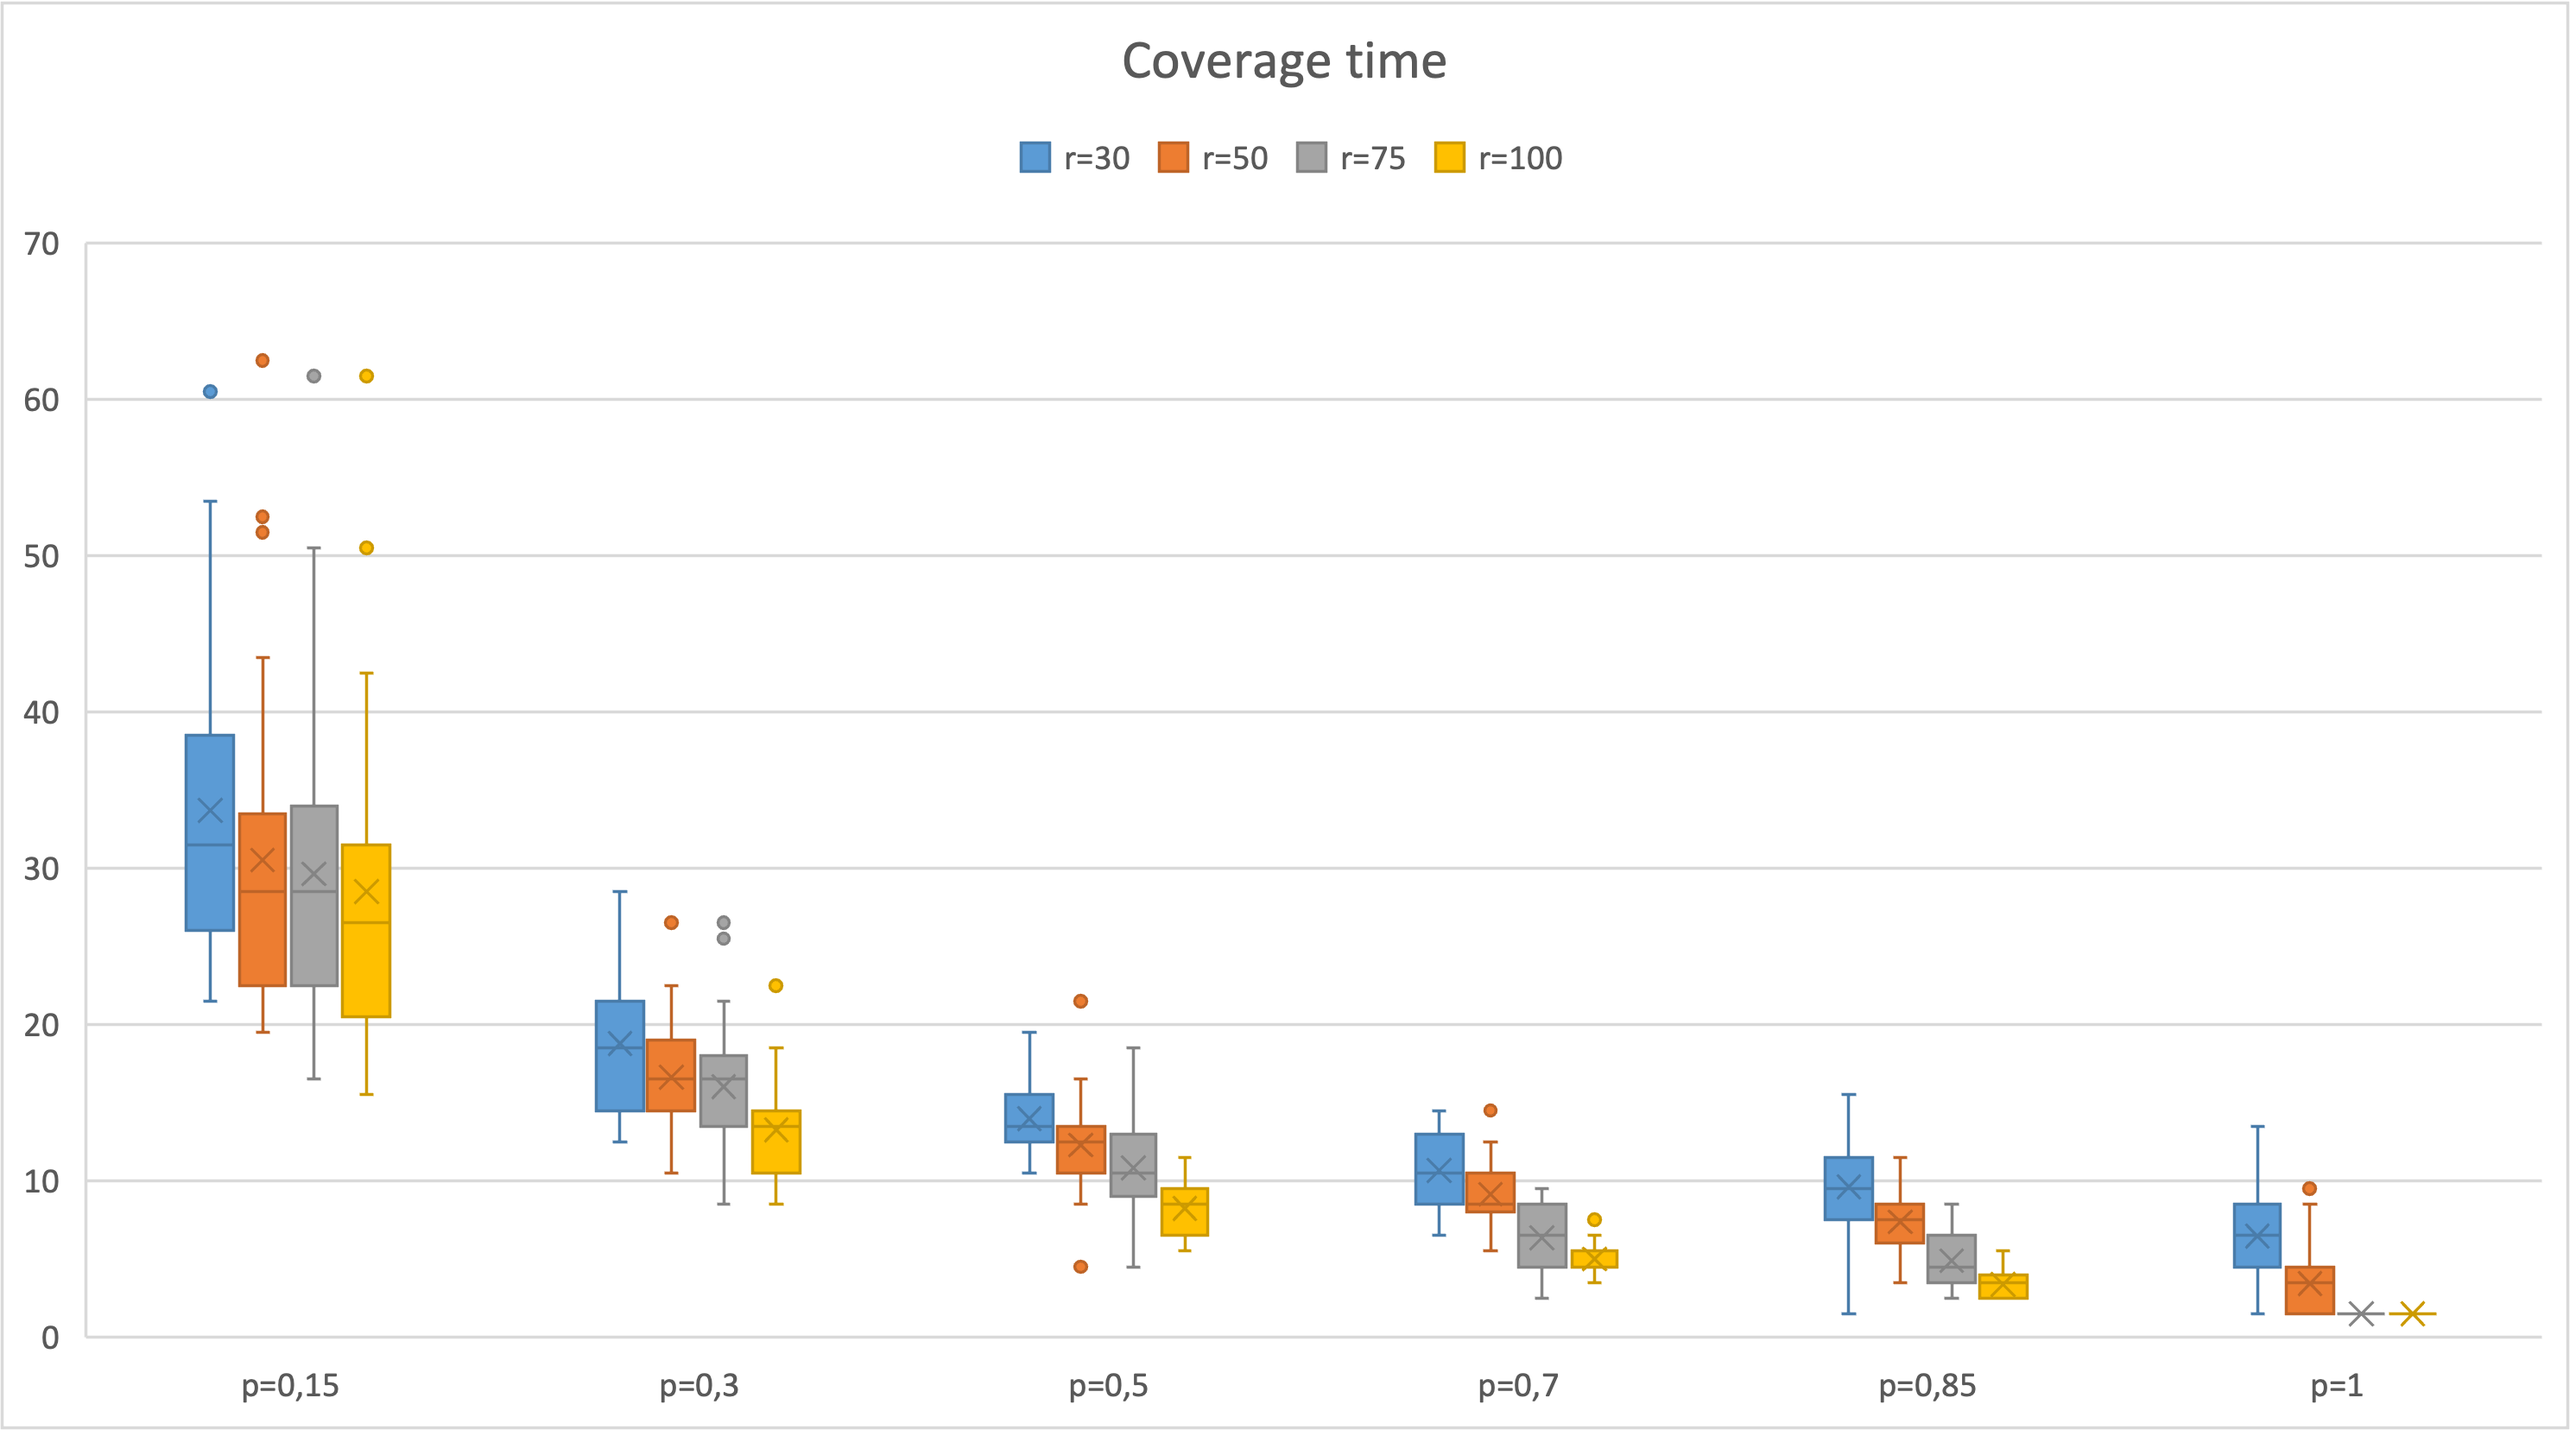
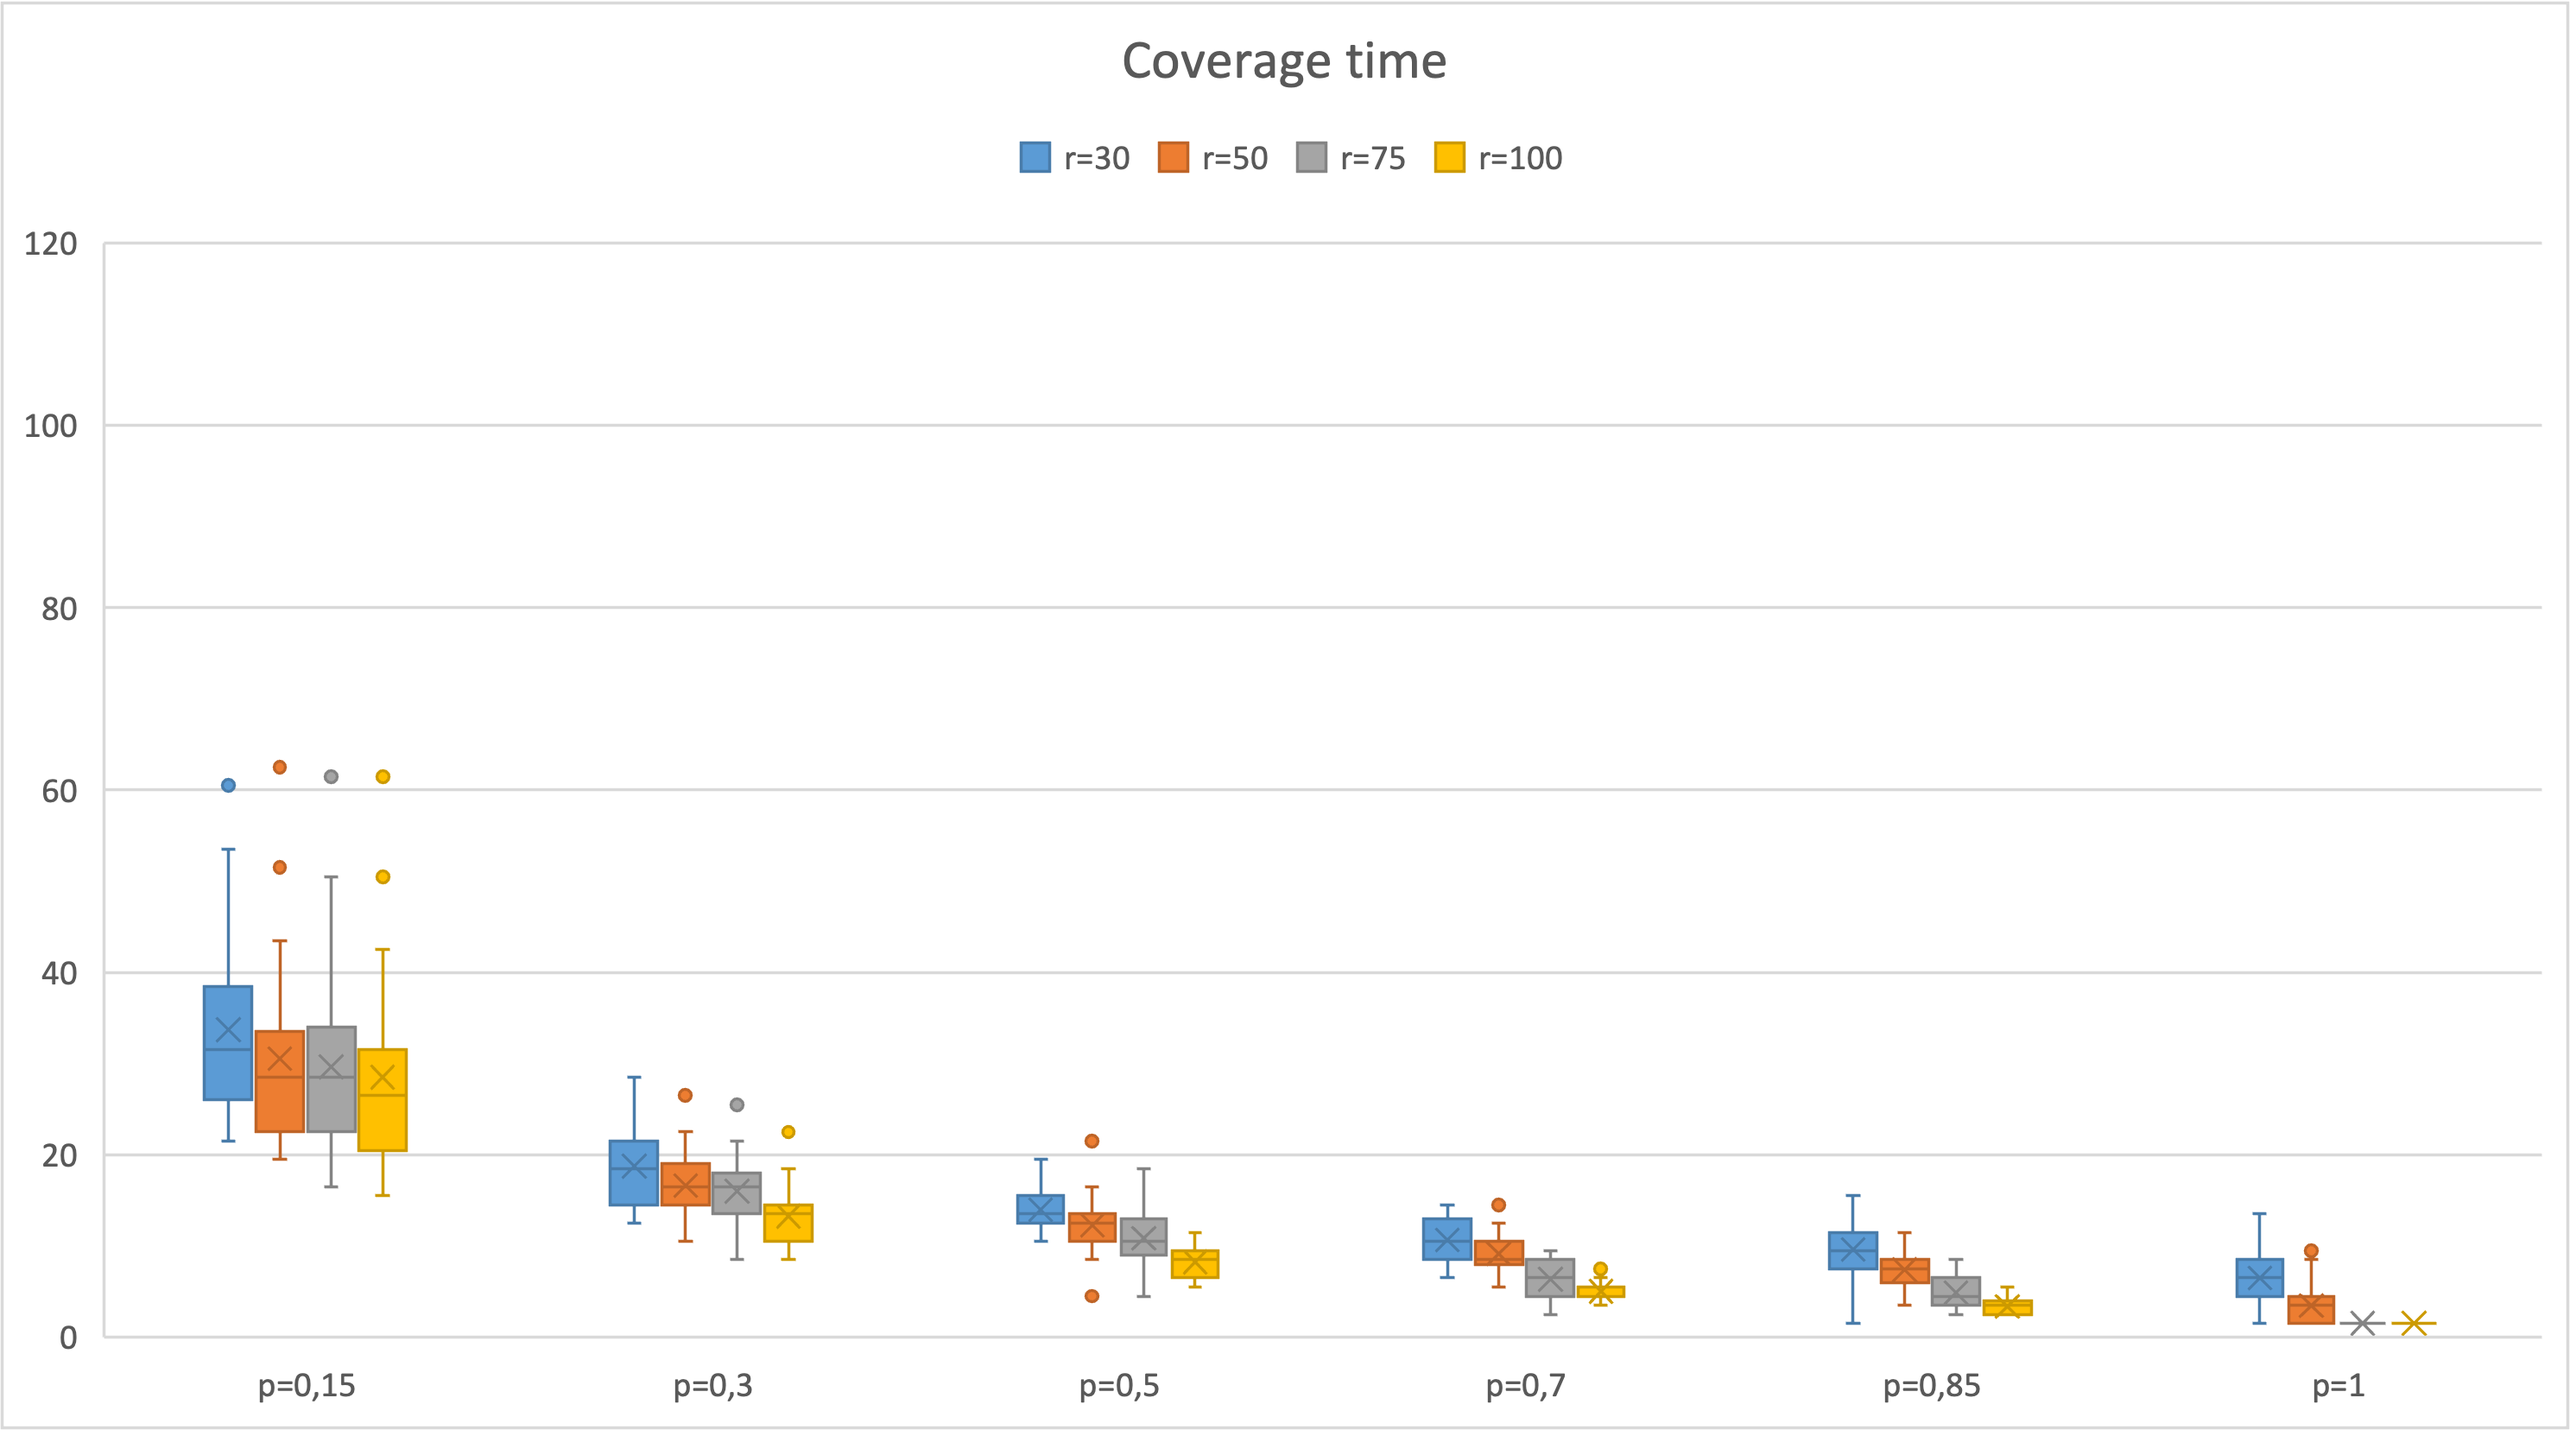
Modify case study part (200 Nodes)

diff --git a/documentation/Case_Study.tex b/documentation/Case_Study.tex
@@ -55,7 +55,6 @@ p=1    & 0,19741 & 0,67781                         & 0,5003                     
 \section{Performance indexes}
 After selecting the runs to be analysed, we chose to plot the most interesting performance indicators such as the percentage of collisions, coverage and the completion time of each scenario. For symmetry, the graphs also show configurations, such as the one with probability 0.7 and radius 75, which we had previously rejected.
 
-\subsection{Coverage percentage}
 \begin{figure}[h!]
 \centering
     \includegraphics[width= 1\textwidth]{./images/Rate200Boxplot.png}
@@ -63,27 +62,24 @@ After selecting the runs to be analysed, we chose to plot the most interesting p
     \label{fig:coverage-percentage}
 \end{figure}
 
-\noindent Looking at this graph, it can be seen that increasing the probability does not give better coverage in most cases, as one would expect. In fact, it should be emphasized that as the probability increases, collisions also increase accordingly.
 
-\subsection{Coverage time}
-\begin{figure}
+\begin{figure}[h!]
 \centering
     \includegraphics[width= 1\textwidth]{./images/Time200Boxplot.png}
     \caption{Coverage time}
     \label{fig:coverage-time}
 \end{figure}
-\noindent As imagined, the coverage time decreases as the probability increases, as a higher probability translates into more nodes that can send the infection message.
 
-\subsection{Mean collision rate}
+\clearpage 
 
-\begin{figure}
+\begin{figure}[h!]
 \centering
     \includegraphics[width= 1\textwidth]{./images/Collision200Boxplot.png}
     \caption{Mean collision rate}
     \label{fig:mean-collision-rate}
 \end{figure}
 
-\noindent As regards the collision index, the average value from the initial instant to the completion instant was obtained for all 33 runs. It was not possible to detect clearly visible trends, however, it should be noted that as the radius and the probability increase, the possibility of having many nodes reached by the infection message in the first instants without collisions is high.
+\noindent Looking at coverage percentage graph, it can be seen that increasing the probability does not give better coverage in most cases, as one would expect. In fact, it should be emphasized that as the probability increases, collisions also increase accordingly. As imagined, the coverage time decreases as the probability increases, as a higher probability translates into more nodes that can send the infection message. As regards the collision index, the average value from the initial instant to the completion instant was obtained for all 33 runs. It was not possible to detect clearly visible trends, however, it should be noted that as the radius and the probability increase, the possibility of having many nodes reached by the infection message in the first instants without collisions is high. It also should be highlighted that excluding the borderline case with radius 100, radius 50 and 75 show worse coverage and on average a higher collision rate. 
 
 \clearpage 
 

diff --git a/documentation/Varying_Nodes_Boxplot.tex b/documentation/Varying_Nodes_Boxplot.tex
@@ -1,5 +1,5 @@
 \section{Varying Nodes: 50 and 700 cases}
-At the edges of the node numbers chosen for our configurations we have 50 and 700. We now want to analyze the performance indixes for 50 and then for 700 nodes, to discover any similarities and/or differences with the case at 200.
+At the edges of the node numbers chosen for our configurations we have 50 and 700. We now want to analyze the performance indixes for 50 and then for 700 nodes, to discover any similarities and/or differences with the case at 200. Note how for the configuration of radius 10 at 700 nodes appears to be a valid configuration but due to the symmetry of the graphs at 200 and 50 nodes it is not shown.
 
 \subsection{Coverage percentage}
 \begin{figure}[H]
@@ -24,6 +24,8 @@ At the edges of the node numbers chosen for our configurations we have 50 and 70
 \endminipage
 \end{figure}
 
+
+
 \subsection{Coverage time}
 \begin{figure}[H]
 \minipage{0.50\linewidth}
@@ -31,7 +33,7 @@ At the edges of the node numbers chosen for our configurations we have 50 and 70
   \caption{50 Nodes}\label{fig:awesome_image1}
 \endminipage\hfill
 \minipage{0.50\linewidth}
-  \includegraphics[width=\linewidth]{./images/Time200Boxplot.png}
+  \includegraphics[width=\linewidth]{./images/Time200BoxplotScaled.png}
   \caption{200 Nodes}\label{fig:awesome_image2}
 \endminipage
 \end{figure}
@@ -42,7 +44,7 @@ At the edges of the node numbers chosen for our configurations we have 50 and 70
   \caption{700 Nodes}\label{fig:awesome_image1}
 \endminipage\hfill
 \minipage{0.50\linewidth}
-  \includegraphics[width=\linewidth]{./images/Time200Boxplot.png}
+  \includegraphics[width=\linewidth]{./images/Time200BoxplotScaled.png}
   \caption{200 Nodes}\label{fig:awesome_image2}
 \endminipage
 \end{figure}
